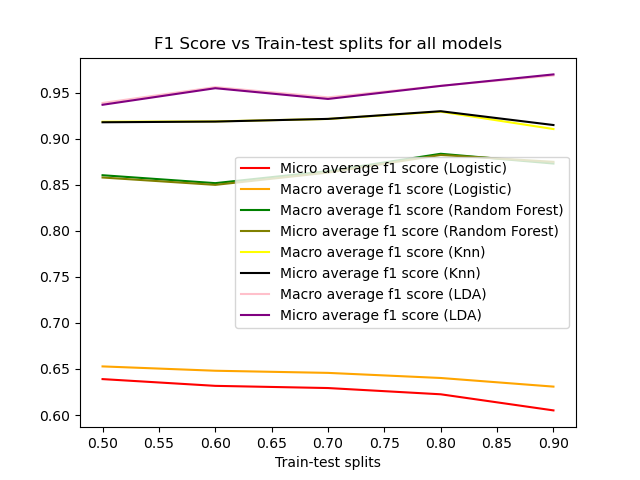
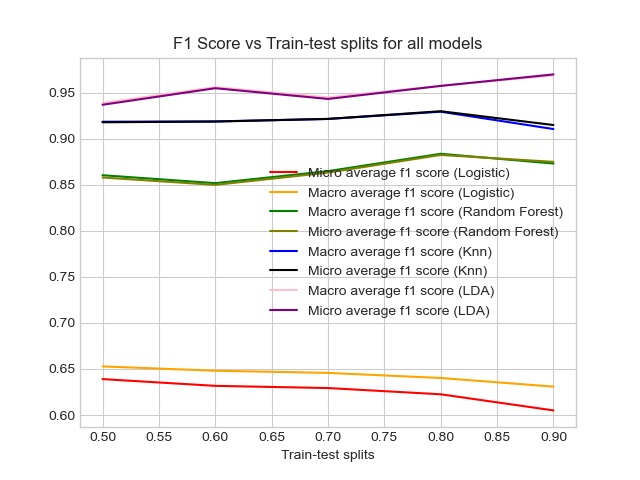
Random Forest graphs created
Created the plots in the plots file and put into the main file

diff --git a/plots.py b/plots.py
@@ -2,6 +2,7 @@ import pandas as pd
 import numpy as np
 import matplotlib.pyplot as plt
 import time
+import warnings
 from SoftmaxRegression import SoftmaxRegression
 from sklearn.ensemble import RandomForestClassifier
 from modelconstruct import train_test_data
@@ -10,42 +11,67 @@ from metrics import confusion_matrix
 from metrics import precision_and_recall
 from metrics import micro_average_f1_score
 from metrics import macro_average_f1_score
+plt.style.use('seaborn-whitegrid')
+warnings.filterwarnings("ignore")
 
-
-
-
-def RF_graph():
-    X_train, Y_train, X_test, Y_test = train_test_data('MobilePricingUpdated.csv', 0.8) #runs train_test_split function
-    n_range=range(10, 100, 10)
+def rf_hyperparameters(dataset):
+    X_train, Y_train, X_test, Y_test = train_test_data(dataset, 0.8) #runs train_test_split function
+    n_range=range(10, 100, 2)
     acc_scores=[]
     mi_f1=[]
     ma_f1=[]
     for i in n_range:
-        start=time.process_time()
         RFClassifier = RandomForestClassifier(n_estimators=i, random_state=4)
         RFClassifier.fit(X_train,Y_train)
         y_pred_RF = RFClassifier.predict(X_test)
-        #5 metrics (Accuracy, confusion Matrix, precision, recall and f1 (both types))
-        acc = accuracy(y_pred_RF, Y_test) #computes accuracy
-        cm = confusion_matrix(Y_test, y_pred_RF) #computes test confusion matrix
-        prm = precision_and_recall(cm) #computes precision and recall and represents the in a matrix
-        micro_f1 = micro_average_f1_score(cm) #Micro f1, uses the global precision and recall (prone to imbalanced datasets)
-        macro_f1 = macro_average_f1_score(prm) #Macro f1, uses the average of individual classes' precision and recalls (better for imbalanced datasets)
+        acc = accuracy(y_pred_RF, Y_test) 
+        cm = confusion_matrix(Y_test, y_pred_RF) 
+        prm = precision_and_recall(cm) 
+        micro_f1 = micro_average_f1_score(cm)
+        macro_f1 = macro_average_f1_score(prm) 
         acc_scores.append(acc)
         mi_f1.append(micro_f1)
         ma_f1.append(macro_f1)
-        #print("Time Taken:", time.process_time()-start) #time taken to compute all of it
-    plt.figure()
-    plt.grid()
-    plt.xlabel('Number of trees (n_estimators)')
-    plt.ylabel('Accuracy')
-    plt.plot(n_range, acc_scores, label='Accuracy on test data')
-    plt.plot(n_range, mi_f1, label='Micro F1 Score')
-    plt.plot(n_range, ma_f1, label='Macro F1 Score')
-    plt.legend()
-    plt.show()
 
-RandomForest()
+    fig = plt.plot(n_range, acc_scores, label='Accuracy on test data')
+    plt.title('Test Accuracy vs Number of trees')
+    plt.xlabel('Number of trees (n_estimators)')
+    plt.ylabel('Test Accuracy')
+    plt.legend()
+    plt.savefig('RandomForestAccuracyGraph')
+    plt.close()
+
+    fig2 = plt.plot(n_range, mi_f1, label='Micro F1 Score')
+    plt.plot(n_range, ma_f1, label='Macro F1 Score')
+    plt.title('F1 Score vs Number of trees')
+    plt.xlabel('Number of trees (n_estimators)')
+    plt.ylabel('F1 Score')
+    plt.legend()
+    plt.savefig('RandomForestF1ScoreGraph')
+    plt.close()
+    return fig, fig2
+    
+
+def oob_error_rf(dataset):
+    X_train, Y_train, X_test, Y_test = train_test_data(dataset, 0.8) #runs train_test_split function
+    n_range=range(15,100, 2)
+    oob_errors=[]
+    for i in n_range:
+        RFClassifier = RandomForestClassifier(n_estimators=i, oob_score=True, random_state=4)
+        RFClassifier.fit(X_train,Y_train)
+        oob_errors.append(1-RFClassifier.oob_score_)
+
+    fig = plt.plot(n_range, oob_errors)
+    plt.title('OOB error vs Number of trees')
+    plt.xlabel('Number of trees (n_estimators)')
+    plt.ylabel('OOB Error')
+    plt.savefig('RandomForestLossFunctionGraph')
+    return fig
+ 
+#rf_hyperparameters('MobilePricingUpdated.csv')
+
+#oob_error_rf('MobilePricingUpdated.csv')
+
 
 
 

diff --git a/RandomForest.py b/RandomForest.py
@@ -28,44 +28,11 @@ def RandomForest(dataset, n, n_trees, ran_state):
 
     return acc, micro_f1, macro_f1, run_time
 
-acc= RandomForest('MobilePricingUpdated.csv', 0.8, 40, 4)
+#testing purposes
+RandomForest('MobilePricingUpdated.csv', 0.8, 40, 4)
 
 
 # So I tested the hyperparameters, settled on train test split for 0.8
 #for the RF hyperparameters, n_estimators and random_state, iterated from 10-100 (in 10 intervals for n_estimators) and None - 4 (5 intervals for random_state)
 #Best combination from the 50 trials were n=40 and random_state=4 (best accuracy=0.8825, F1 scores in 0.882-0.883), next one was n=80, random_state=1 (with around 0.880 for f1 and accuracy)
 #Worst combination was n=10 and no random state with around 0.75 for the metrics
-
-"""
-old file
-def RandomForest():
-    X_train, Y_train, X_test, Y_test = train_test_data('MobilePricingUpdated.csv', 0.8) #runs train_test_split function
-    n_range=range(10, 100, 10)
-    acc_scores=[]
-    mi_f1=[]
-    ma_f1=[]
-    for i in n_range:
-        start=time.process_time()
-        RFClassifier = RandomForestClassifier(n_estimators=i, random_state=4)
-        RFClassifier.fit(X_train,Y_train)
-        y_pred_RF = RFClassifier.predict(X_test)
-        #5 metrics (Accuracy, confusion Matrix, precision, recall and f1 (both types))
-        acc = accuracy(y_pred_RF, Y_test) #computes accuracy
-        cm = confusion_matrix(Y_test, y_pred_RF) #computes test confusion matrix
-        prm = precision_and_recall(cm) #computes precision and recall and represents the in a matrix
-        micro_f1 = micro_average_f1_score(cm) #Micro f1, uses the global precision and recall (prone to imbalanced datasets)
-        macro_f1 = macro_average_f1_score(prm) #Macro f1, uses the average of individual classes' precision and recalls (better for imbalanced datasets)
-        acc_scores.append(acc)
-        mi_f1.append(micro_f1)
-        ma_f1.append(macro_f1)
-        #print("Time Taken:", time.process_time()-start) #time taken to compute all of it
-    plt.figure()
-    plt.grid()
-    plt.xlabel('Number of trees (n_estimators)')
-    plt.ylabel('Accuracy')
-    plt.plot(n_range, acc_scores, label='Accuracy on test data')
-    plt.plot(n_range, mi_f1, label='Micro F1 Score')
-    plt.plot(n_range, ma_f1, label='Macro F1 Score')
-    plt.legend()
-    plt.show()
-"""

diff --git a/main.py b/main.py
@@ -7,10 +7,22 @@ from SoftmaxRegression import SoftmaxRegression
 from RandomForest import RandomForest
 from Knn import Knn
 from LDA import LDA
+from plots import rf_hyperparameters, oob_error_rf
 
 
 
 def main(ifname):
+    plt.style.use('seaborn-whitegrid')
+
+    #Hyperparameters tuning graphs
+    #RandomForest, optimal choice for n_estimators is 40
+    rf_hyperparameters('MobilePricingUpdated.csv')
+
+    #loss functions graphs
+    #RandomForests
+    oob_error_rf('MobilePricingUpdated.csv')
+
+
     accuracy_train=[]
     accuracy_test=[]
     microf1_scores=[]
@@ -62,7 +74,7 @@ def main(ifname):
     plt.plot(nvals, accuracy_test, label='Accuracy on test data (Logistic)', color ='red')
     plt.plot(nvals, acc_RF, label='Accuracy on test data (Random Forest)', color = 'green')
     plt.plot(nvals,acc_Knnl,label='Accuracy on test data (Knn)', color = 'blue')
-    plt.plot(nvals,acc_LDA, label='Accuracy on test data (LDA)', color ='yellow')
+    plt.plot(nvals,acc_LDA, label='Accuracy on test data (LDA)', color ='purple')
     plt.xlabel('Train-test splits')
     plt.title('Accuracy vs Train-test Splits for all models')
     plt.legend(loc="center right")
@@ -74,7 +86,7 @@ def main(ifname):
     plt.plot(nvals, macrof1_scores, label= 'Macro average f1 score (Logistic)', color='orange')
     plt.plot(nvals, macrof1_RF, label= 'Macro average f1 score (Random Forest)', color='green')
     plt.plot(nvals, microf1_RF, label= 'Micro average f1 score (Random Forest)', color='olive')
-    plt.plot(nvals, macro_f1_Knnl, label= 'Macro average f1 score (Knn)', color='yellow')
+    plt.plot(nvals, macro_f1_Knnl, label= 'Macro average f1 score (Knn)', color='blue')
     plt.plot(nvals, micro_f1_Knnl, label= 'Micro average f1 score (Knn)', color='black')
     plt.plot(nvals, macro_f1_LDA, label= 'Macro average f1 score (LDA)', color='pink')
     plt.plot(nvals, micro_f1_LDA, label= 'Micro average f1 score (LDA)', color='purple')

diff --git a/DataAnalysis.py b/DataAnalysis.py
@@ -2,6 +2,20 @@ import numpy as np
 import pandas as pd 
 import matplotlib.pyplot as plt
 import seaborn as sns
+
+
+def preprocessing(dataset):
+    df=pd.read_csv(dataset)
+    print(df.isnull().sum()) #turns out there is no null values
+    #We could remove the three_g column as when a phone has 4_g it automatically has 3_g. Also in everyday now, 4_g is more relevant
+    df_updated=df.drop(['three_g'], axis=1)
+    #check if the dataset is balanced across the 4 classes
+    print(df_updated["price_range"].value_counts()) #turns out it is evenly distributed between the 4 classes
+
+    #Finally update the csv for use
+    df_updated.to_csv('MobilePricingUpdated.csv', index=False)
+
+
 def data_analysis(dataset):
     df=pd.read_csv(dataset)
     fig = sns.jointplot(data=df, x='ram', y='price_range', color='blue', kind='kde')
